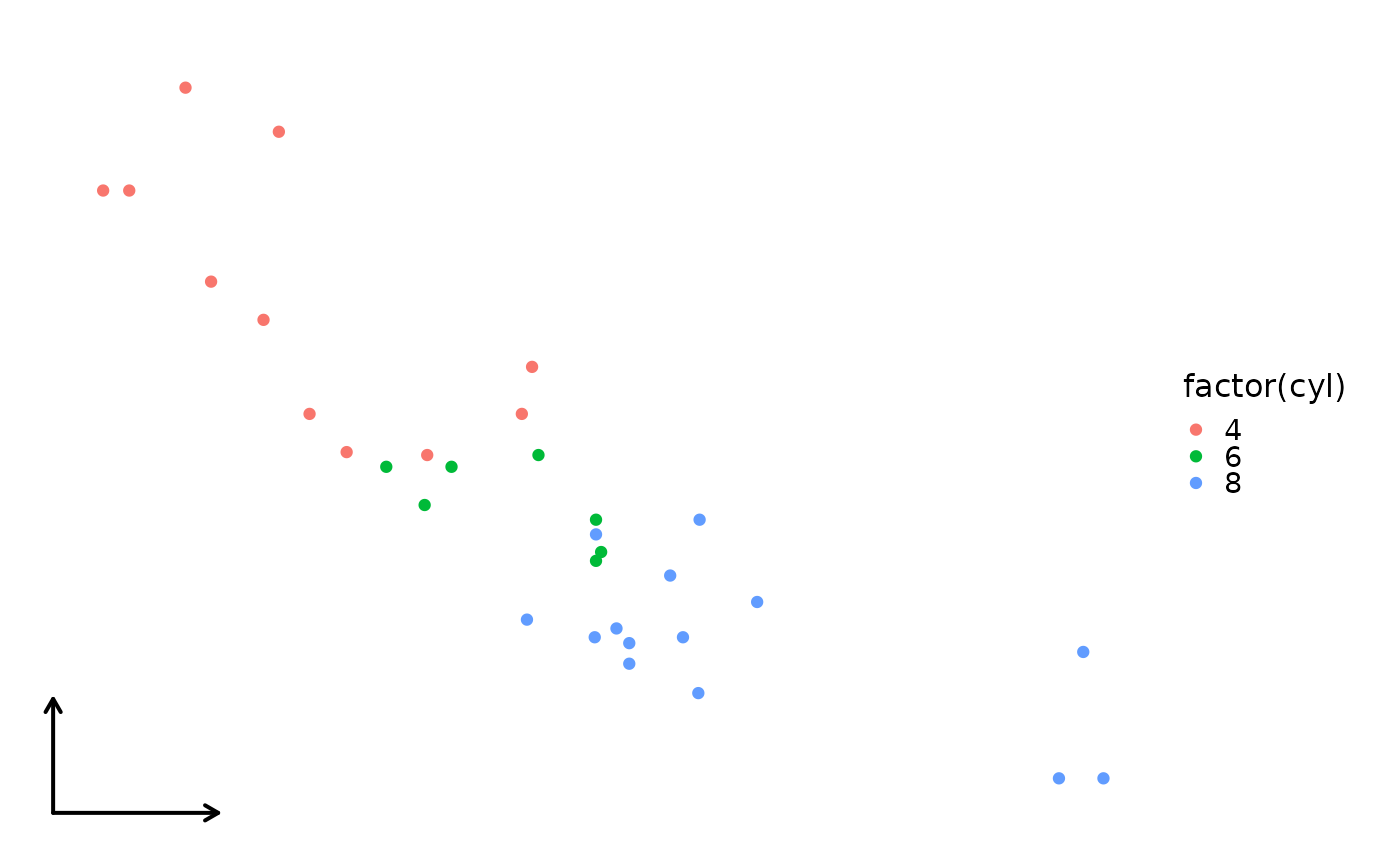
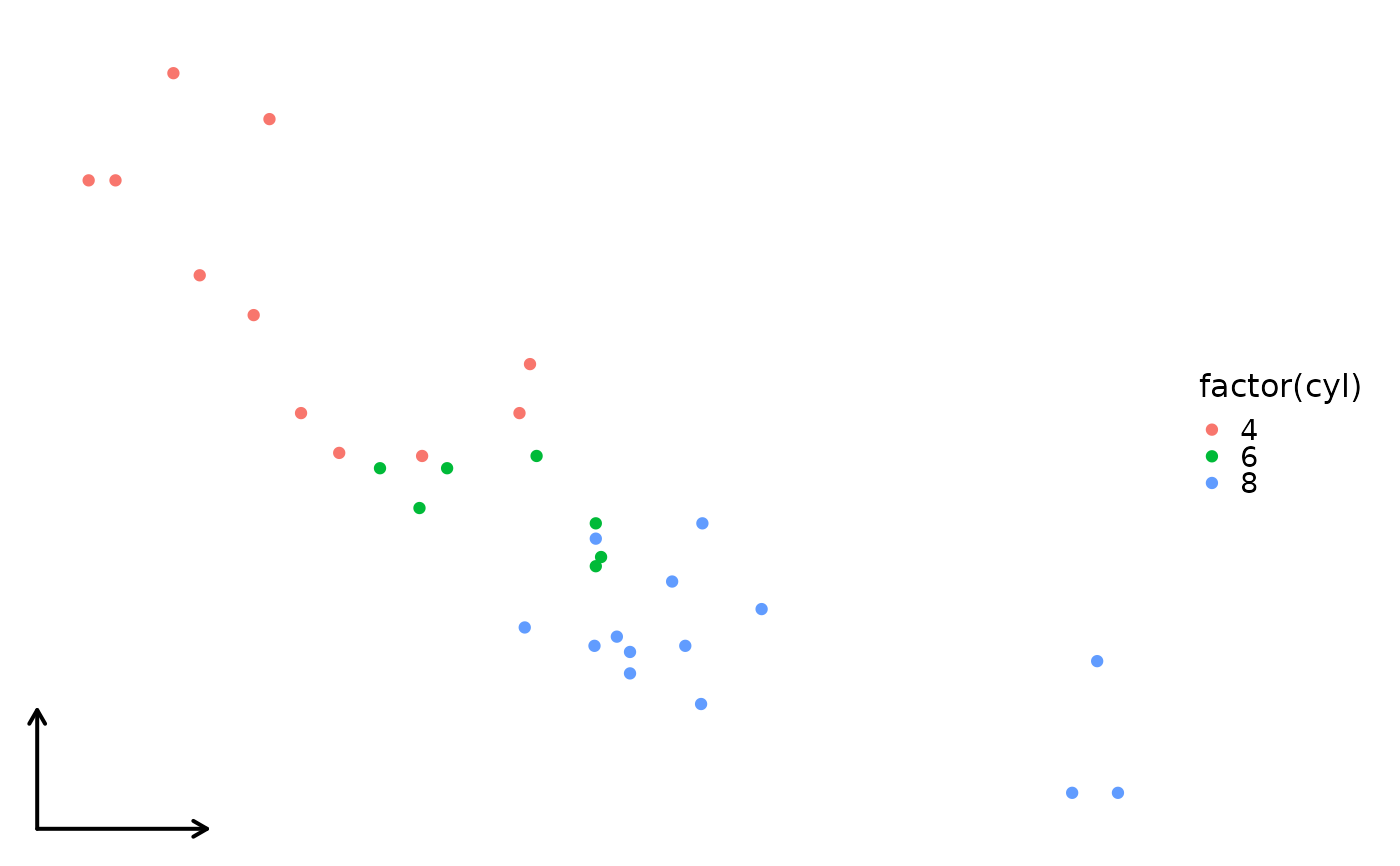
Deploying to gh-pages from @ mengxu98/thisplot@a850083c5264eb74cfc60cc92648fb5c6e3fd859 🚀

diff --git a/reference/get_vars.html b/reference/get_vars.html
@@ -80,11 +80,11 @@ if <code>TRUE</code>, returns unused variables.</p>
 <span class="r-in"><span><span class="op">)</span> <span class="op">+</span></span></span>
 <span class="r-in"><span>  <span class="fu"><a href="https://ggplot2.tidyverse.org/reference/geom_point.html" class="external-link">geom_point</a></span><span class="op">(</span><span class="op">)</span></span></span>
 <span class="r-in"><span><span class="fu">get_vars</span><span class="op">(</span><span class="va">p</span><span class="op">)</span></span></span>
-<span class="r-msg co"><span class="r-pr">#&gt;</span> <span style="color: #00BBBB;">ℹ</span> [2026-06-08 13:53:59] Vars_used: <span style="color: #0000BB;">"mpg"</span>, <span style="color: #0000BB;">"cyl"</span>, and <span style="color: #0000BB;">"wt"</span></span>
+<span class="r-msg co"><span class="r-pr">#&gt;</span> <span style="color: #00BBBB;">ℹ</span> [2026-06-08 14:09:42] Vars_used: <span style="color: #0000BB;">"mpg"</span>, <span style="color: #0000BB;">"cyl"</span>, and <span style="color: #0000BB;">"wt"</span></span>
 <span class="r-msg co"><span class="r-pr">#&gt;</span> <span style="color: #00BBBB;">ℹ</span>                       vars_notused: <span style="color: #0000BB;">"disp"</span>, <span style="color: #0000BB;">"hp"</span>, <span style="color: #0000BB;">"drat"</span>, <span style="color: #0000BB;">"qsec"</span>, <span style="color: #0000BB;">"vs"</span>, <span style="color: #0000BB;">"am"</span>, <span style="color: #0000BB;">"gear"</span>, and <span style="color: #0000BB;">"carb"</span></span>
 <span class="r-out co"><span class="r-pr">#&gt;</span> [1] "mpg" "cyl" "wt" </span>
 <span class="r-in"><span><span class="fu">get_vars</span><span class="op">(</span><span class="va">p</span>, reverse <span class="op">=</span> <span class="cn">TRUE</span><span class="op">)</span></span></span>
-<span class="r-msg co"><span class="r-pr">#&gt;</span> <span style="color: #00BBBB;">ℹ</span> [2026-06-08 13:53:59] Vars_used: <span style="color: #0000BB;">"mpg"</span>, <span style="color: #0000BB;">"cyl"</span>, and <span style="color: #0000BB;">"wt"</span></span>
+<span class="r-msg co"><span class="r-pr">#&gt;</span> <span style="color: #00BBBB;">ℹ</span> [2026-06-08 14:09:42] Vars_used: <span style="color: #0000BB;">"mpg"</span>, <span style="color: #0000BB;">"cyl"</span>, and <span style="color: #0000BB;">"wt"</span></span>
 <span class="r-msg co"><span class="r-pr">#&gt;</span> <span style="color: #00BBBB;">ℹ</span>                       vars_notused: <span style="color: #0000BB;">"disp"</span>, <span style="color: #0000BB;">"hp"</span>, <span style="color: #0000BB;">"drat"</span>, <span style="color: #0000BB;">"qsec"</span>, <span style="color: #0000BB;">"vs"</span>, <span style="color: #0000BB;">"am"</span>, <span style="color: #0000BB;">"gear"</span>, and <span style="color: #0000BB;">"carb"</span></span>
 <span class="r-out co"><span class="r-pr">#&gt;</span> [1] "disp" "hp"   "drat" "qsec" "vs"   "am"   "gear" "carb"</span>
 </code></pre></div>

diff --git a/reference/StatPlot.html b/reference/StatPlot.html
@@ -421,7 +421,7 @@ Default is <code>11</code>.</p></dd>
 <span class="r-in"><span>  venn_engine <span class="op">=</span> <span class="st">"venny"</span>,</span></span>
 <span class="r-in"><span>  venn_args <span class="op">=</span> <span class="fu"><a href="https://rdrr.io/r/base/list.html" class="external-link">list</a></span><span class="op">(</span>detail <span class="op">=</span> <span class="cn">TRUE</span><span class="op">)</span></span></span>
 <span class="r-in"><span><span class="op">)</span></span></span>
-<span class="r-msg co"><span class="r-pr">#&gt;</span> <span style="color: #BBBB00;">!</span> [2026-06-08 13:53:47] `stat_type` is forcibly set to <span style="color: #0000BB;">"count"</span> when plot <span style="color: #0000BB;">"sankey"</span>, <span style="color: #0000BB;">"chord"</span>, <span style="color: #0000BB;">"venn"</span>, and <span style="color: #0000BB;">"upset"</span></span>
+<span class="r-msg co"><span class="r-pr">#&gt;</span> <span style="color: #BBBB00;">!</span> [2026-06-08 14:09:31] `stat_type` is forcibly set to <span style="color: #0000BB;">"count"</span> when plot <span style="color: #0000BB;">"sankey"</span>, <span style="color: #0000BB;">"chord"</span>, <span style="color: #0000BB;">"venn"</span>, and <span style="color: #0000BB;">"upset"</span></span>
 <span class="r-plt img"><img src="StatPlot-8.png" alt="" width="700" height="433"></span>
 </code></pre></div>
     </div>

diff --git a/reference/slim_data.html b/reference/slim_data.html
@@ -89,7 +89,7 @@ the object size when the original data contains many unused columns.</p>
 <span class="r-out co"><span class="r-pr">#&gt;</span> [11] "carb"</span>
 <span class="r-in"><span></span></span>
 <span class="r-in"><span><span class="va">p_slim</span> <span class="op">&lt;-</span> <span class="fu">slim_data</span><span class="op">(</span><span class="va">p</span><span class="op">)</span></span></span>
-<span class="r-msg co"><span class="r-pr">#&gt;</span> <span style="color: #00BBBB;">ℹ</span> [2026-06-08 13:54:07] Vars_used: <span style="color: #0000BB;">"mpg"</span>, <span style="color: #0000BB;">"cyl"</span>, and <span style="color: #0000BB;">"wt"</span></span>
+<span class="r-msg co"><span class="r-pr">#&gt;</span> <span style="color: #00BBBB;">ℹ</span> [2026-06-08 14:09:50] Vars_used: <span style="color: #0000BB;">"mpg"</span>, <span style="color: #0000BB;">"cyl"</span>, and <span style="color: #0000BB;">"wt"</span></span>
 <span class="r-msg co"><span class="r-pr">#&gt;</span> <span style="color: #00BBBB;">ℹ</span>                       vars_notused: <span style="color: #0000BB;">"disp"</span>, <span style="color: #0000BB;">"hp"</span>, <span style="color: #0000BB;">"drat"</span>, <span style="color: #0000BB;">"qsec"</span>, <span style="color: #0000BB;">"vs"</span>, <span style="color: #0000BB;">"am"</span>, <span style="color: #0000BB;">"gear"</span>, and <span style="color: #0000BB;">"carb"</span></span>
 <span class="r-in"><span><span class="fu"><a href="https://rdrr.io/r/utils/object.size.html" class="external-link">object.size</a></span><span class="op">(</span><span class="va">p_slim</span><span class="op">)</span></span></span>
 <span class="r-out co"><span class="r-pr">#&gt;</span> 364944 bytes</span>